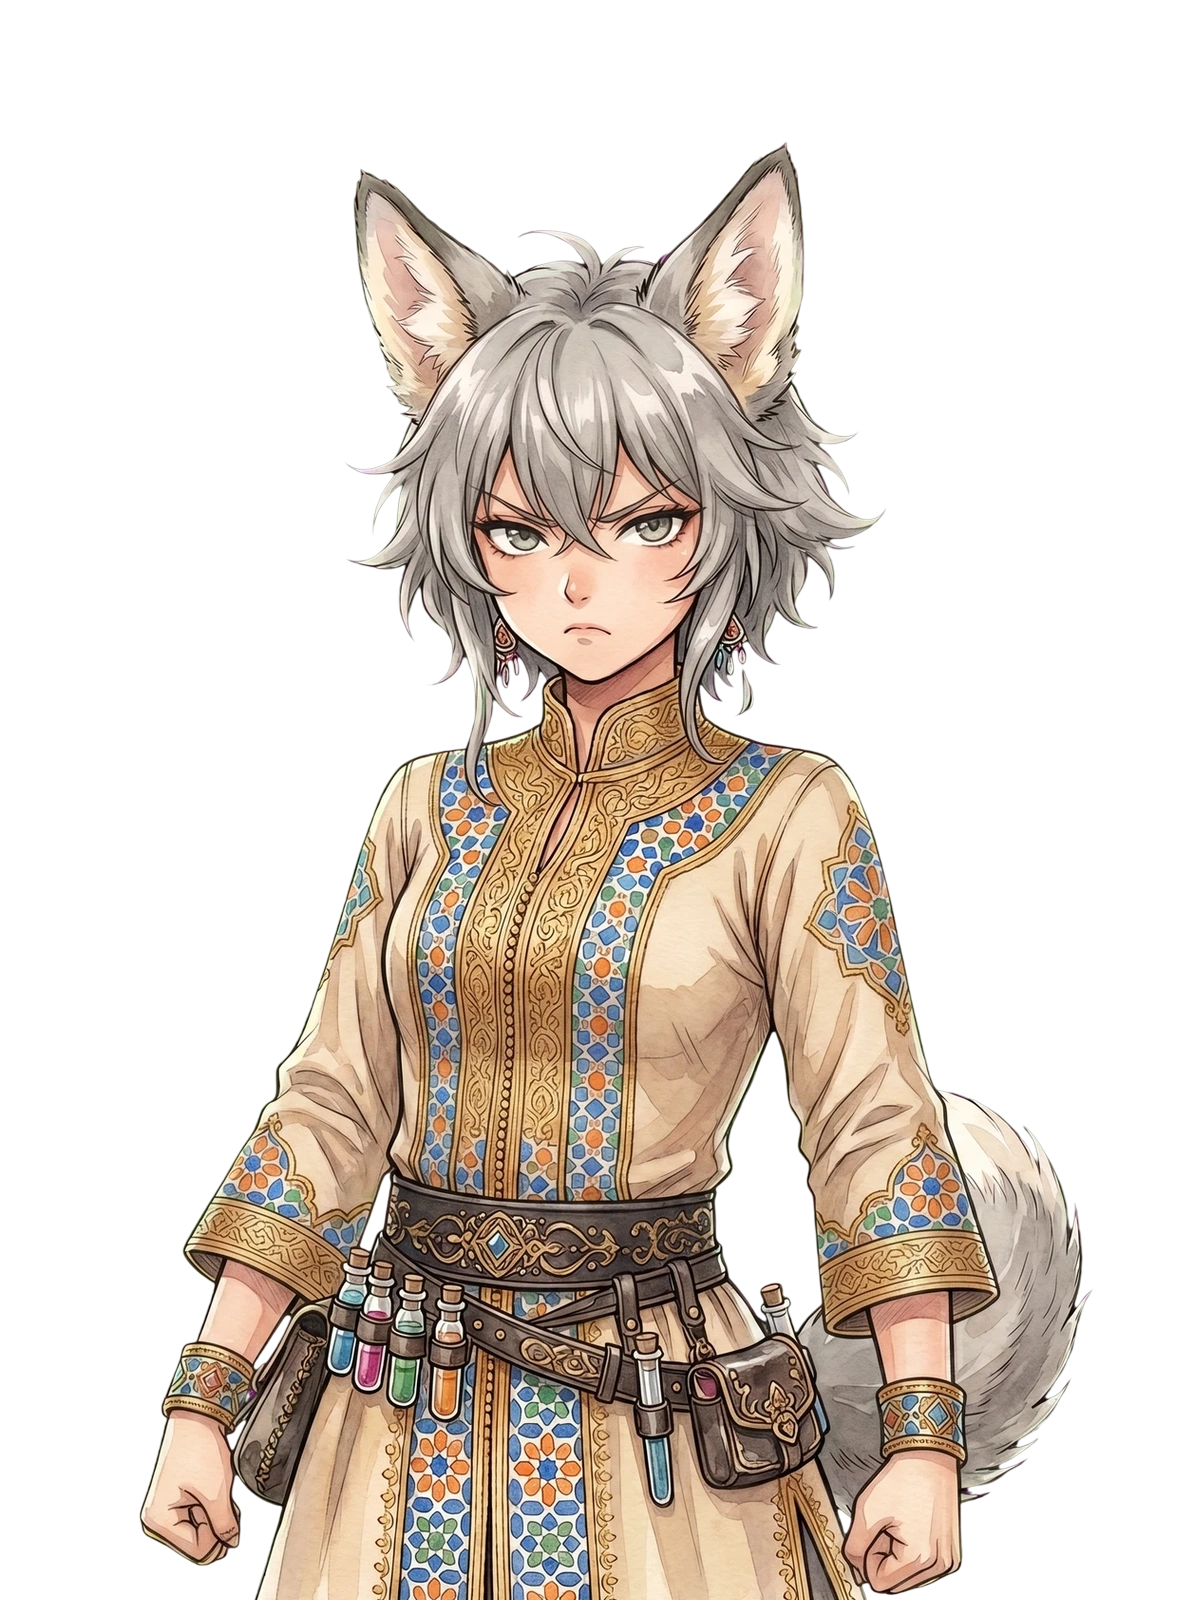
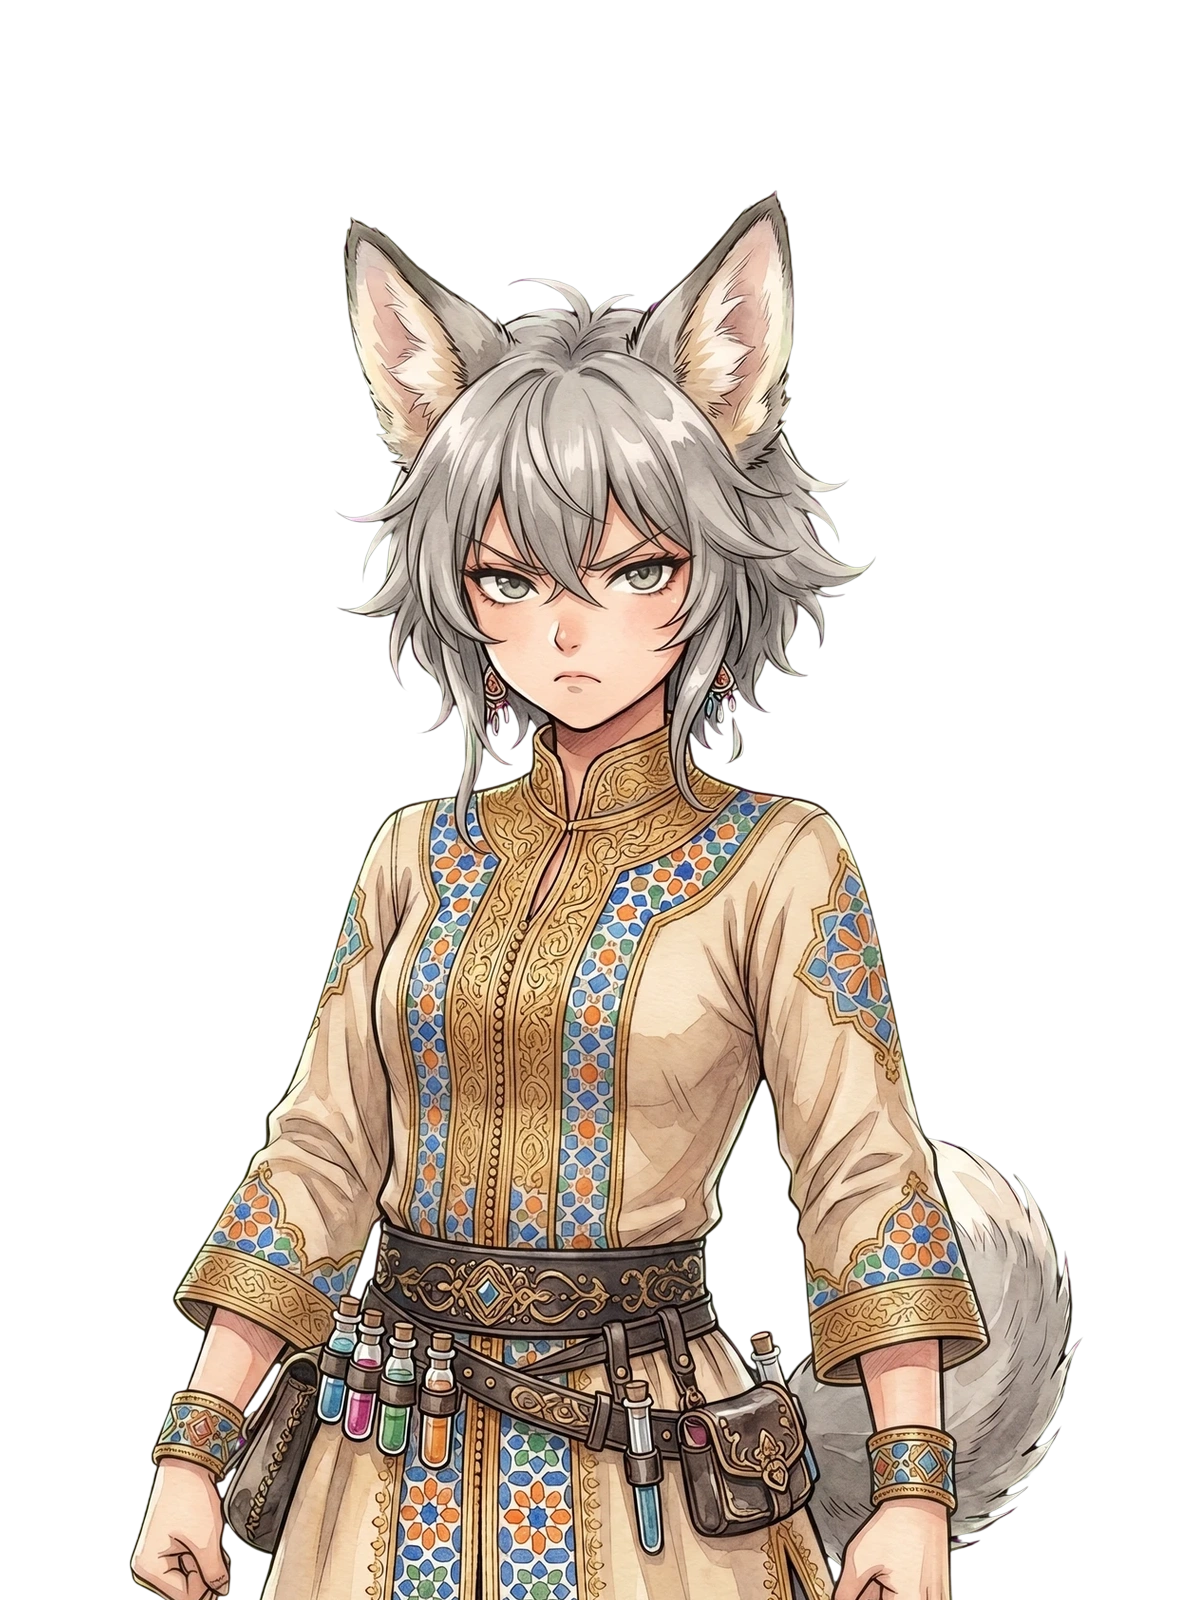
build: update bundle and style with latest visual profiles

diff --git a/bundle.js b/bundle.js
@@ -29606,7 +29606,6 @@ function normalizeCharacterDir(id) {
 function getCharacterStandingPath(id, expression = 'normal') {
   if (!id) return '';
   const charDir = normalizeCharacterDir(id);
-  // Valid expressions from filesystem: normal, joy, fun, anger, cry, sorrow, surprise, etc.
   const expFile = expression.toLowerCase();
   return `characters/${charDir}/standing_proc/${expFile}.webp`;
 }
@@ -30069,7 +30068,7 @@ const DEFAULT_PROFILE = {
   heroineSelect: { ...DEFAULT_VISUAL_MODE, height: 520, bottom: -86 },
   bustup: { ...DEFAULT_VISUAL_MODE, height: 660, bottom: -260, scale: 1.45 },
   eventClose: { ...DEFAULT_VISUAL_MODE, height: 700, bottom: -300, scale: 1.62 },
-  result: { ...DEFAULT_VISUAL_MODE, height: 900, bottom: -20, scale: 0.92 },
+  result: { ...DEFAULT_VISUAL_MODE, height: 900, bottom: -20, scale: 1.3, x: -80 },
   selectIcon: DEFAULT_ICON_MODE,
   speakerIcon: DEFAULT_ICON_MODE
 };
@@ -30077,45 +30076,19 @@ const DEFAULT_PROFILE = {
 const CHARACTER_VISUAL_PROFILES = {
   MIRA: {
     theme: { primary: '#6fd7ff', secondary: '#2d91d0', textStroke: 'rgba(16, 67, 105, 0.50)', stampFont: '"Klee", "Hannotate SC", "Hiragino Maru Gothic ProN", "Yu Gothic", cursive' },
-    standing: { image: 'standing', scale: 1.00, x: 0, y: 0, bottom: 0, height: 980 },
-    heroineSelect: { image: 'standing', scale: 1.00, x: 0, y: 0, bottom: -86, height: 520 },
-    bustup: { image: 'standing', scale: 1.42, x: 0, y: 0, bottom: -260, height: 660 },
-    eventClose: { image: 'standing', scale: 1.58, x: 0, y: 0, bottom: -300, height: 700 },
-    result: { image: 'standing', scale: 0.94, x: -12, y: 0, bottom: -28, height: 900 },
-    selectIcon: { image: 'face', scale: 1.00, x: 50, y: 50 },
-    speakerIcon: { image: 'face', scale: 1.00, x: 50, y: 50 }
+    // All modes use default standardized values
   },
   HAKIMA: {
     theme: { primary: '#ffd86c', secondary: '#e58a2f', textStroke: 'rgba(98, 55, 12, 0.52)', stampFont: '"UD Digi Kyokasho N-R", "Yu Mincho", "Hiragino Mincho ProN", serif' },
-    // Ear height makes her effective top taller; keep a small downward nudge.
-    standing: { image: 'standing', scale: 1.10, x: 0, y: 0, bottom: 0, height: 980 },
-    heroineSelect: { image: 'standing', scale: 1.14, x: 0, y: 10, bottom: -98, height: 520 },
-    bustup: { image: 'standing', scale: 1.56, x: 0, y: 16, bottom: -278, height: 660 },
-    eventClose: { image: 'standing', scale: 1.74, x: 0, y: 18, bottom: -318, height: 700 },
-    result: { image: 'standing', scale: 0.98, x: -10, y: 0, bottom: -34, height: 900 },
-    selectIcon: { image: 'face', scale: 1.04, x: 50, y: 48 },
-    speakerIcon: { image: 'face', scale: 1.04, x: 50, y: 48 }
+    // All modes use default standardized values
   },
   DARIYA: {
     theme: { primary: '#ff6d9b', secondary: '#b83363', textStroke: 'rgba(85, 13, 45, 0.55)', stampFont: '"Yu Mincho", "Hiragino Mincho ProN", "HGS明朝E", serif' },
-    // Horn height needs a stronger downward nudge after face-size scaling.
-    standing: { image: 'standing', scale: 1.22, x: 0, y: 0, bottom: 0, height: 980 },
-    heroineSelect: { image: 'standing', scale: 1.28, x: 0, y: 20, bottom: -118, height: 520 },
-    bustup: { image: 'standing', scale: 1.72, x: 0, y: 28, bottom: -300, height: 660 },
-    eventClose: { image: 'standing', scale: 1.90, x: 0, y: 32, bottom: -342, height: 700 },
-    result: { image: 'standing', scale: 1.04, x: -18, y: 0, bottom: -44, height: 900 },
-    selectIcon: { image: 'face', scale: 1.02, x: 50, y: 47 },
-    speakerIcon: { image: 'face', scale: 1.02, x: 50, y: 47 }
+    // All modes use default standardized values
   },
   NADIR: {
     theme: { primary: '#f4c267', secondary: '#3d83c9', textStroke: 'rgba(35, 49, 84, 0.50)', stampFont: '"Yu Gothic", "Hiragino Sans", system-ui, sans-serif' },
-    standing: { image: 'standing', scale: 1.10, x: 0, y: 0, bottom: 0, height: 980 },
-    heroineSelect: { image: 'standing', scale: 1.12, x: 0, y: 8, bottom: -96, height: 520 },
-    bustup: { image: 'standing', scale: 1.56, x: 0, y: 14, bottom: -278, height: 660 },
-    eventClose: { image: 'standing', scale: 1.72, x: 0, y: 18, bottom: -318, height: 700 },
-    result: { image: 'standing', scale: 0.96, x: -10, y: 0, bottom: -34, height: 900 },
-    selectIcon: { image: 'face', scale: 1.04, x: 50, y: 48 },
-    speakerIcon: { image: 'face', scale: 1.04, x: 50, y: 48 }
+    // All modes use default standardized values
   }
 };
 
@@ -30139,7 +30112,13 @@ function getCharacterVisualProfile(id, mode = 'standing') {
   const profile = CHARACTER_VISUAL_PROFILES[normalized] || {};
   const defaultMode = DEFAULT_PROFILE[mode] || DEFAULT_PROFILE.standing;
   const characterMode = profile[mode] || profile.standing;
-  return mergeMode(defaultMode, characterMode);
+  
+  // If the character object doesn't define the mode, it will naturally use fallback.
+  // We check if the profile has the mode explicitly.
+  if (profile[mode]) {
+    return mergeMode(defaultMode, profile[mode]);
+  }
+  return defaultMode;
 }
 
 function applyCharacterVisualProfile(el, id, mode = 'standing') {
